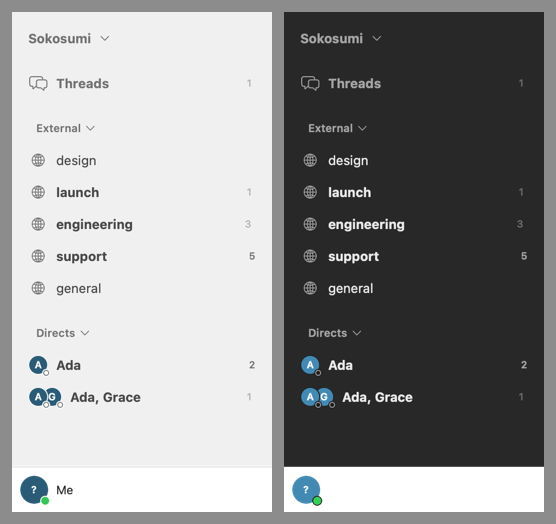
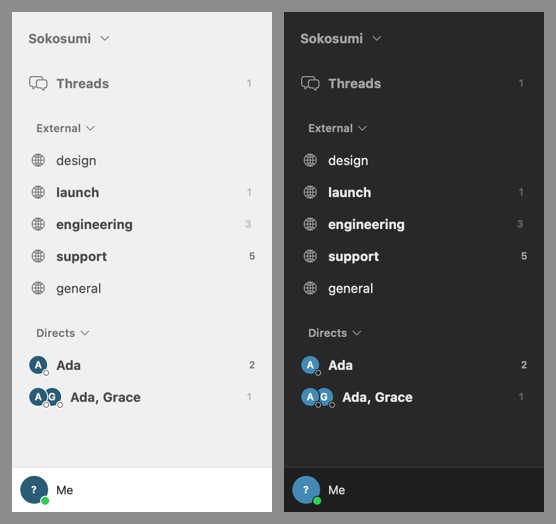
test(apple): draw the sidebar fixture's footer on the window background
The 24g1 render showed the dark account footer as a white bar with an
invisible "Me". The footer below the List has no background of its own,
because in the app the sidebar column shows through. The bare-hosted
fixture therefore recorded it as transparent pixels, which a viewer
shows as white. origin/main's sidebar view records the same thing, so
this was not a regression.

The fixture now puts the window background behind the sidebar, and it
asserts an opaque footer that matches the appearance. The committed
render is replaced.

Changed region(s): [[0.4892, 0.8855, 0.9784, 0.9771]]

diff --git a/apps/apple/SokosumiTests/Chat/Sidebar/SidebarRoomAttentionTests.swift b/apps/apple/SokosumiTests/Chat/Sidebar/SidebarRoomAttentionTests.swift
@@ -70,9 +70,13 @@
       private static func render(_ rooms: [Components.Schemas.ChatRoom], dark: Bool, name: String? = nil) async throws -> NSBitmapImageRep {
         let state = try await workspace(rooms)
         let size = NSRect(x: 0, y: 0, width: 260, height: 500)
+        // The List paints its own background; the account footer below it has none, because in the app the
+        // split view's sidebar column shows through. Hosted bare, it would record as transparent pixels, so the
+        // fixture puts the appearance's window background behind the whole sidebar.
         let host = NSHostingView(rootView: ConversationSidebarView()
           .environmentObject(state).environmentObject(AuthState())
           .frame(width: size.width, height: size.height)
+          .background(.background)
           .environment(\.colorScheme, dark ? .dark : .light))
         let window = NSWindow(contentRect: size, styleMask: [.titled], backing: .buffered, defer: false)
         window.appearance = NSAppearance(named: dark ? .darkAqua : .aqua)
@@ -111,6 +115,11 @@
           .init(bold: true, badgeCount: 1)
         ])
         let bitmap = try await Self.render(rooms, dark: dark, name: "sidebar-room-attention-\(dark ? "dark" : "light").png")
+        // The account footer below the List is drawn on the appearance's background, not left transparent: a
+        // viewer shows transparency as white, which hid the dark footer's light "Me".
+        let footer = try #require(bitmap.colorAt(x: bitmap.pixelsWide - 40, y: bitmap.pixelsHigh - 30)?.usingColorSpace(.deviceRGB))
+        #expect(footer.alphaComponent == 1, "Footer background alpha: \(footer.alphaComponent)")
+        #expect(dark ? footer.brightnessComponent < 0.5 : footer.brightnessComponent > 0.5, "Footer brightness: \(footer.brightnessComponent)")
         // Vision reads text only on a local run (the CI runner returns nil); pixels carry the other tests.
         guard let lines = try RoomThreadOverviewGroupsViewTests.recognizedText(in: bitmap) else { return }
         /// Web draws the count in the badge's column, so the name ends its text line (Vision reads the globe

diff --git a/apps/apple/PARITY.md b/apps/apple/PARITY.md
@@ -2122,7 +2122,7 @@ Tests (red first, then green):
 - Workspace, `WorkspaceStateTests` (+2): `aThreadMuteSettlesTheRowOnCoresHalves` and `markAllSettlesTheRowOnCoresHalves`, through the real coordinator and a scripted transport. Red against the old overlay (the file reverted, everything else in place): 3 issues.
 - App, `NativeWindowTests.SidebarRoomAttentionTests` (4 tests, 8 cases, light and dark): the real `ConversationSidebarView` with the count preference on. `rendersTheRowsWebDraws` asserts each row's attention and records the render; where Vision runs, each name ends its text line (no count after it), the Thread-only room has nothing on its line and the badged room shows no 12. Three pixel tests compare the sidebar against two renders of the reference: Thread replies alone change nothing, a badged row's count is not drawn (12 against 7), a Direct of two draws no badge. Red against the unchanged view with the new package: `threadRepliesAloneDrawNothing` and `aDirectOfTwoDrawsNoBadge` failed in light and dark, the render showed "design · 4" bold and "support · 5" after the name; `aBadgedRowDrawsNoCount` already passed, because the one-number rule lives in the package and was red there.
 
-Render: the recorded images were inspected. External: "design" plain (4 Thread replies, 2 unread Threads), "launch" bold with the badge "1" (a Thread mention), "engineering" bold with the badge "3" and no count, "support" bold with "5" at the trailing edge, "general" plain; Directs: "Ada" (a Direct of two, 2 messages) bold with "2" as a count, "Ada, Grace" bold with the badge "1"; the Threads row above shows the badge "1". Light and dark; nothing clipped at 260 pt. [sidebar-room-attention.png](docs/images/sidebar-room-attention.png) is these renders at half size, light beside dark. The native badge sits a few points further in than the count, and the count is drawn in `.secondary` where the badge is lighter: the same pair the 24f1 Threads row already shows. The "Me" chip below the List falls outside the fixture's background in dark, as in 24f1.
+Render: the recorded images were inspected. External: "design" plain (4 Thread replies, 2 unread Threads), "launch" bold with the badge "1" (a Thread mention), "engineering" bold with the badge "3" and no count, "support" bold with "5" at the trailing edge, "general" plain; Directs: "Ada" (a Direct of two, 2 messages) bold with "2" as a count, "Ada, Grace" bold with the badge "1"; the Threads row above shows the badge "1". Light and dark; nothing clipped at 260 pt. [sidebar-room-attention.png](docs/images/sidebar-room-attention.png) is these renders at half size, light beside dark. The native badge sits a few points further in than the count, and the count is drawn in `.secondary` where the badge is lighter: the same pair the 24f1 Threads row already shows. Review follow-up: the first committed render showed the dark account footer as a white bar with an invisible "Me". It was a fixture artifact, not a regression. The sidebar's footer below the List has no background of its own (in the app the split view's sidebar column shows through), so the bare-hosted fixture recorded it as transparent pixels (alpha 0, light and dark), and the composite carried the transparency through to a white viewer. The same fixture with `origin/main`'s `ConversationSidebarView` records the same transparent footer, and so does the 24f1 Threads-row fixture. The fixture now puts the window background behind the hosted sidebar, and `rendersTheRowsWebDraws` asserts an opaque footer that is dark in dark and light in light. That assertion failed first against the old fixture: alpha 0 in both appearances. The render was replaced.
 
 Verification (all from `apps/apple`, on `2cfc9b1d7` plus this change):
[1 lines of base64/hex data omitted]
